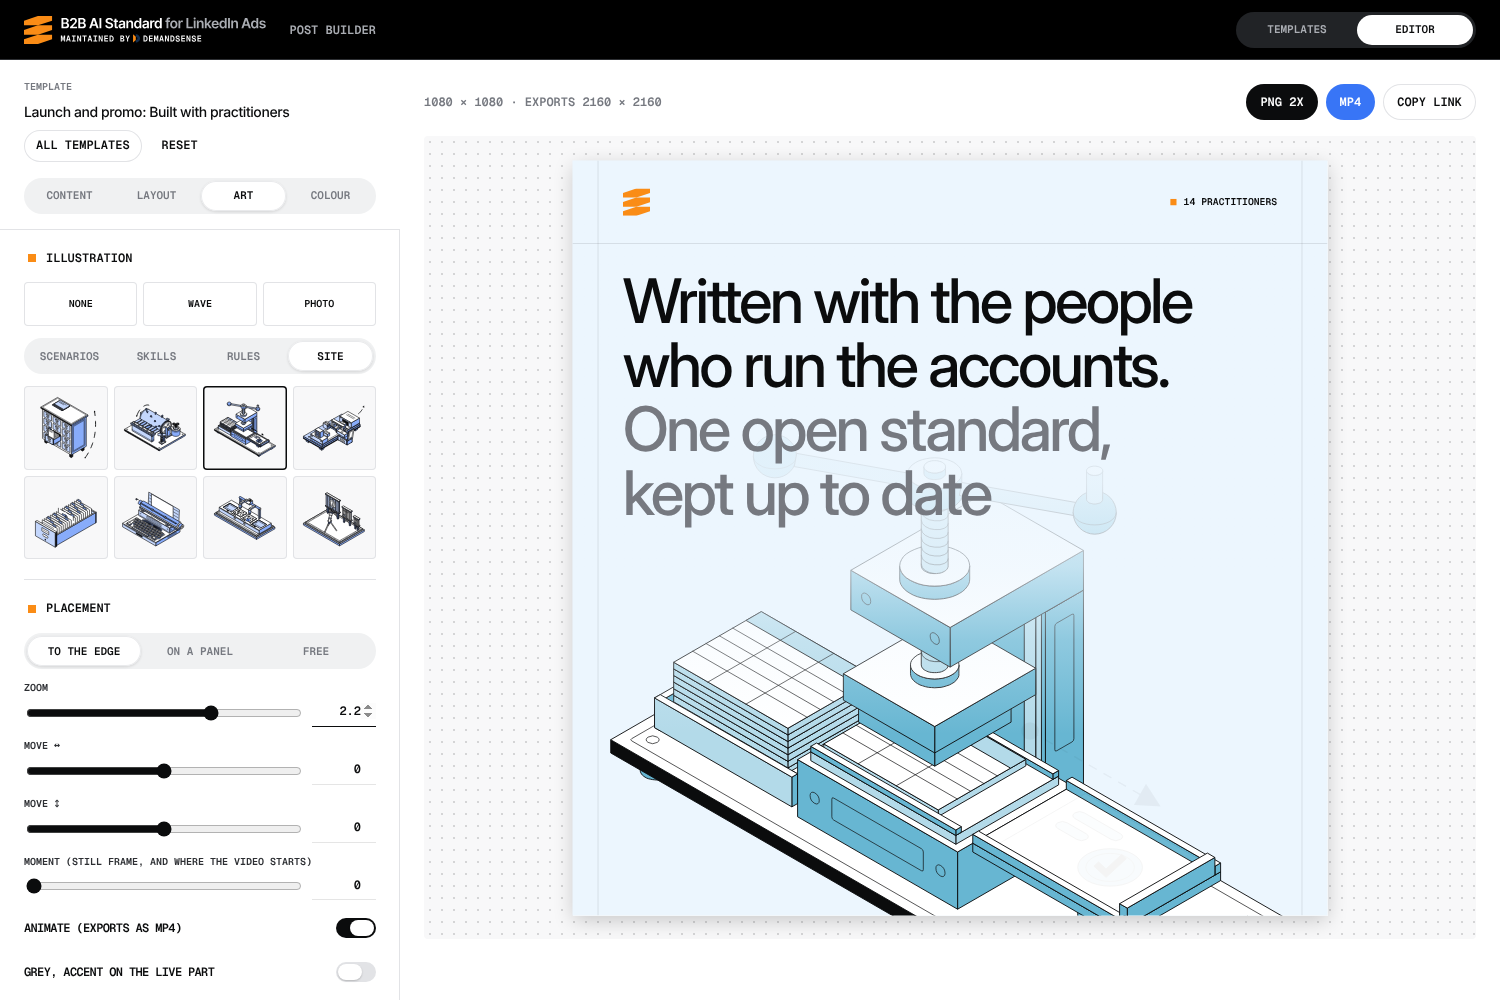
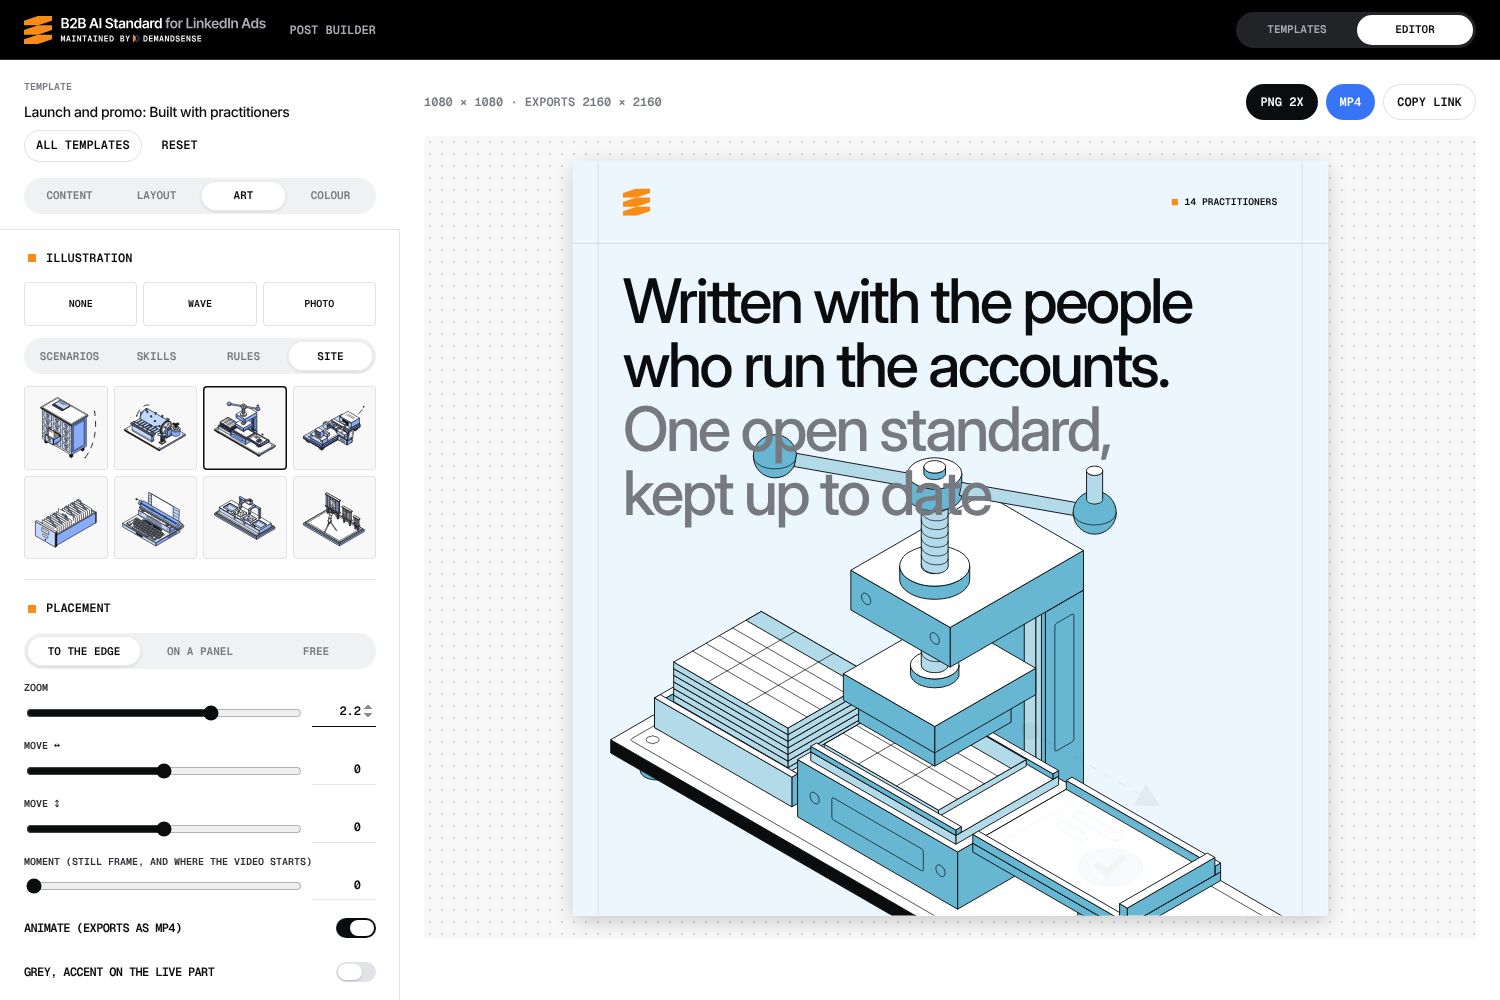
post builder: the fade only under text-on-art layouts
Claude-Session: https://claude.ai/code/session_016Vj5QquRTD7JfdBm6335cS

diff --git a/site/src/builder.ts b/site/src/builder.ts
@@ -104,7 +104,7 @@ export function postHTML(s: State) {
   const [W, H] = FORMATS[s.format], wide = W > H * 1.2, dark = isDark(s);
   const sc = Math.min(W / 1080, H / (wide ? 760 : 1080));
   const cls = ['post', dark ? 'surface-black' : s.bg.startsWith('pastel-') ? 'on-pastel' : '', wide ? 'wide' : '', s.lines ? 'lines' : '', `frame-${s.art.frame}`,
-    s.fade && s.art.id !== 'none' && (s.layout === 'over' || (s.layout !== 'none' && s.art.zoom > 1)) ? `fade fade-${wide || s.layout === 'over' ? s.vpos : s.layout === 'a' ? 'start' : 'end'}` : '',
+    s.fade && s.art.id !== 'none' && s.layout === 'over' ? `fade fade-${s.vpos}` : '',
     `al-${s.align}`, `logo-${s.logoPos}`, s.hsize === 'fixed' ? 'hfixed' : ''].filter(Boolean).join(' ');
   const style = `--w:${W}px; --h:${H}px; --s0:${sc.toFixed(3)}; --pbg:${bgValue(s)}; --hue:${hueValue(s)}; --panel:${panelValue(s)}; --logo:${s.logoH}; --vpos:${s.vpos}; --hs:${s.hpx}; --t:${(s.tsize / 32).toFixed(4)}; --ax:${s.art.x}%; --ay:${s.art.y}%`;
   const logo = s.logo ? `<img class="p-logo" src="/design-system/brand/${s.logoKind === 'mark' ? 'mark' : dark ? 'logo-b2b' : 'logo-b2b-light'}.svg" alt="">` : '';

diff --git a/docs/post-builder.md b/docs/post-builder.md
@@ -3,7 +3,7 @@
 Internal page for the launch & distribution kit (Notion "AI Standard launch & distribution kit"): `/post-builder` on any deploy (dev: https://ds-b2b-ai-standards-dev.vercel.app/post-builder). Not linked from any page, `noindex`.
 
 - **Templates** tab: every visual the kit lists, filled from the CMS at build time. Launch and promo (promo visual in 4:5, square, 16:9; site-preview opening and closing frames), newsletter (header 1200×480, "From the Standard" block 1200×240), one card per scenario, skill, rule, quote (Home quotes + rule voices) and author (contributors, most additions first). Publish in Studio and the cards follow after the rebuild.
-- **Editor** tab: format (1080, 4:5, 9:16, email 1200×628, header, block, cover 1920×1080), layout (text first / art first / text over art / text only; left-right on wide formats), background (black, white, the 20 cover pastels, any colour), accent, edge lines, dot pattern, logo (full or mark, left or right, size), label, chips, quote mark, two-tone headline (auto-fit or fixed size), body text size (every small text follows it), fade under text on art, divider, body, boxes (LinkedIn default vs the Standard, Runs on), steps strip, tools with logos, list, button, author (byline or card, or anyone by name and photo URL), footer text or colour band, art (any scenario figure, hub figure, skill or rule icon, the alternatives, an author photo, or the wave with its own colours), zoom, position, moment, animation.
+- **Editor** tab: format (1080, 4:5, 9:16, email 1200×628, header, block, cover 1920×1080), layout (text first / art first / text over art / text only; left-right on wide formats), background (black, white, the 20 cover pastels, any colour), accent, edge lines, dot pattern, logo (full or mark, left or right, size), label, chips, quote mark, two-tone headline (auto-fit or fixed size), body text size (every small text follows it), fade under the text (text on art layout), divider, body, boxes (LinkedIn default vs the Standard, Runs on), steps strip, tools with logos, list, button, author (byline or card, or anyone by name and photo URL), footer text or colour band, art (any scenario figure, hub figure, skill or rule icon, the alternatives, an author photo, or the wave with its own colours), zoom, position, moment, animation.
 - **Export**: PNG at 2x; MP4 (H.264, 30 fps, 2x) of one loop of the figure or 8 s of the wave, encoded frame by frame in the browser (Chrome, Edge, Safari 17+). **Copy link** puts the whole post in the URL, so a link reopens it as it was.
 
 Where things live: figures and icons `site/src/art` (pools in `site/src/art/index.ts`, `site/src/icons.ts`), wave `design-system/wave/`, logos `design-system/brand`, connector logos `design-system/logos`, author photos `site/public/authors` or Sanity. Code: `site/src/pages/post-builder.astro` (page, post styles), `site/src/builder.ts` (templates, rendering, export).
